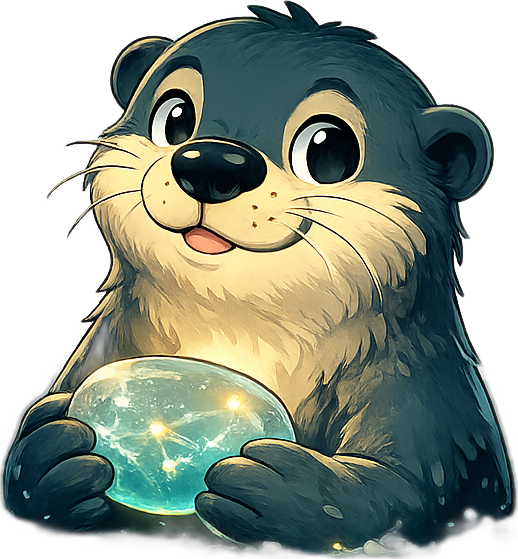
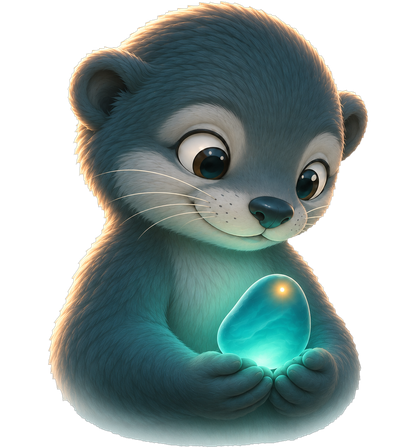
docs(branding): replace the docs hero with the approved painterly pebble
docs/branding/pebble-doc.png, the small Pebble in the header of every docs page and the brand
page's mascot picture, was a cutout with a dark keyline, a cel-shaded face, sparkles and a star
pattern inside the pebble, which BRANDING.md 5.8 and 5.9 rule out. The new file is a painterly
head-and-chest picture generated from the brand set: canon head, a body that matches the head,
the pebble held low, a soft fade at the bottom. It is padded to the header's 104:112 box, so the
header keeps its size (416x448, transparent background, 221 KB against 531 KB).

- BRANDING.md: the open decision note and the asset table row now record the settled asset.
- BRANDING.md and docs/brand.md: the alt text describes the new picture.

diff --git a/BRANDING.md b/BRANDING.md
@@ -451,7 +451,7 @@ palette support.
 is currently off-canon and needs regeneration** to match; see §7.3.
 
 <p align="center">
-  <img src="https://raw.githubusercontent.com/sayak-sarkar/contextlake/main/docs/branding/pebble-doc.png" alt="Pebble, contextlake's mascot: a small, friendly dark blue-grey river otter cradling a glowing translucent context-pebble in both forepaws, offering it forward." width="240">
+  <img src="https://raw.githubusercontent.com/sayak-sarkar/contextlake/main/docs/branding/pebble-doc.png" alt="Pebble, contextlake's mascot: a small, friendly dark blue-grey river otter holding a glowing teal context-pebble in both forepaws and looking down at it." width="240">
 </p>
 
 *The current docs hero image, shown for reference only. It is off-canon (§5.9) and a later release replaces it.*
@@ -543,7 +543,7 @@ simplification of it.
 **Do:** keep the pebble glow the single brightest point; cast its teal glow onto Pebble; aim gaze at
 content/CTA/pebble; use deepwater `#0E2A33` as the darkest value; keep Pebble outline-free.
 
-**Docs hero asset (open, owner decision):** the current `docs/branding/pebble-doc.png` is a cutout with a dark keyline, a cel-shaded face, gold sparkles and star-like dots inside the pebble, and an open tongue. Each of these breaks §5.8, this section, or `docs/branding/mascot.md`. The docs hero asset is to be a painterly picture generated from the brand set. The replacement picture arrives in a later release, and until then the current file stays off-canon.
+**Docs hero asset (settled 2026-11-08, owner decision):** `docs/branding/pebble-doc.png` is a painterly head-and-chest picture of Pebble, generated from the brand set and approved by the owner: canon head, a body that matches the head, the pebble held low, the bottom fading out softly. It replaces the 10.0.0 cutout, which had a dark keyline, a cel-shaded face, gold sparkles, star-like dots inside the pebble and an open tongue.
 
 **Don't:** ❌ node-graph/star-dots inside the pebble · ❌ amber sphere, faceted gem, or gold-nugget pebble · ❌ water droplets/sweat on the face · ❌ hard black outlines on painterly art; no `#000` anywhere · ❌ off-page or viewer-locked painterly stare · ❌ more than one gold glint; no second eye-sparkle · ❌ anxious/shocked/angry/sleepy/silly expressions · ❌ two-Pebble compositions; no Pebble over a live graph · ❌ AI-generated wordmark.
 
@@ -676,7 +676,7 @@ choice. The 16–64px favicon tier (§2.3) is the only surface that drops the ch
 | `docs/img/pebble-peek.png`, `docs/img/icon-512.png`, hero/OG art | **Off-canon**: same brown-fur drift as the mark, from an unlocked later ChatGPT session | **Regenerate** to blue-grey; not yet done, blocked on new art generation | PNG/WebP |
 | `docs/branding/mark.svg`, `mark-dark.svg`, `glyph.svg`, `glyph-mark.svg` | retired flat-mark assets (correct blue-grey color, wrong register) | **Kept for history only** -- not referenced by any build, page, or spec; do not revive as the logo (the register decision stands even though the color was right) | n/a |
 | `docs/branding/wordmark.svg` | shipped single-color, weight 700 | keep in sync with §2.4; `<desc>` should not claim a flat otter-head mark is primary | SVG |
-| `docs/branding/pebble-doc.png` | **Off-canon**: keyline, cel-shaded face, sparkles, open tongue (§5.9). Current docs hero image | **Replace** with a painterly picture in a later release | PNG |
+| `docs/branding/pebble-doc.png` | **Canon**: painterly docs hero, approved 2026-11-08 (416x448, transparent background) | Keep | PNG |
 | `docs/branding/mascot.md` | rewritten to Section 5, then corrected back to blue-grey 2026-07-28 | keep in sync with §5 | markdown |
 | `docs/img/icon-16/32/48/64.png` | context-pebble (`site/tools/gen_small_mark.py`): teal disc, deepwater interior marks, one sun glint | **Regenerate** with the tool; never hand-edit | PNG, deepwater-solid bg |
 | `docs/img/icon-180/192/512.png` | painterly mark (`site/tools/gen_icons_final.py`), warm brown | **Regenerate** once blue-grey painterly art exists (see "The mark" row above) | PNG, deepwater-solid bg |

diff --git a/docs/brand.md b/docs/brand.md
@@ -50,7 +50,7 @@ cradling a glowing translucent context-pebble in both forepaws, offering it forw
 anti-hallucination promise made friendly.
 
 <p align="center">
-  <img src="https://raw.githubusercontent.com/sayak-sarkar/contextlake/main/docs/branding/pebble-doc.png" alt="Pebble, contextlake's mascot: a small, friendly dark blue-grey river otter cradling a glowing translucent context-pebble in both forepaws, offering it forward." width="240">
+  <img src="https://raw.githubusercontent.com/sayak-sarkar/contextlake/main/docs/branding/pebble-doc.png" alt="Pebble, contextlake's mascot: a small, friendly dark blue-grey river otter holding a glowing teal context-pebble in both forepaws and looking down at it." width="240">
 </p>
 
 ## Color
